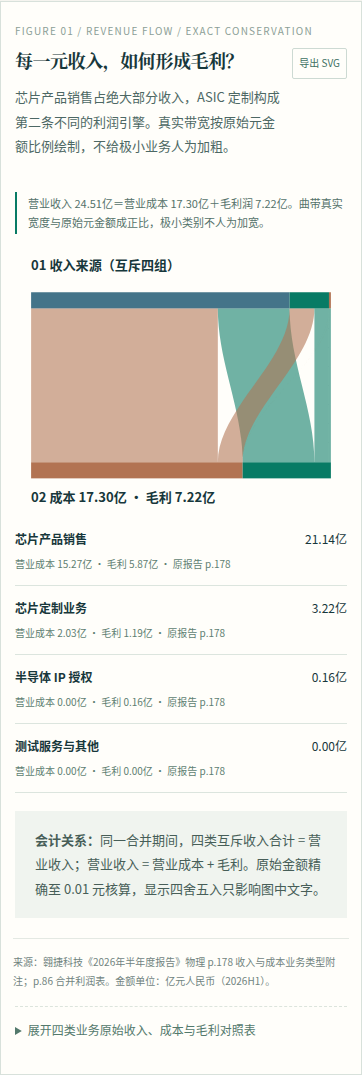
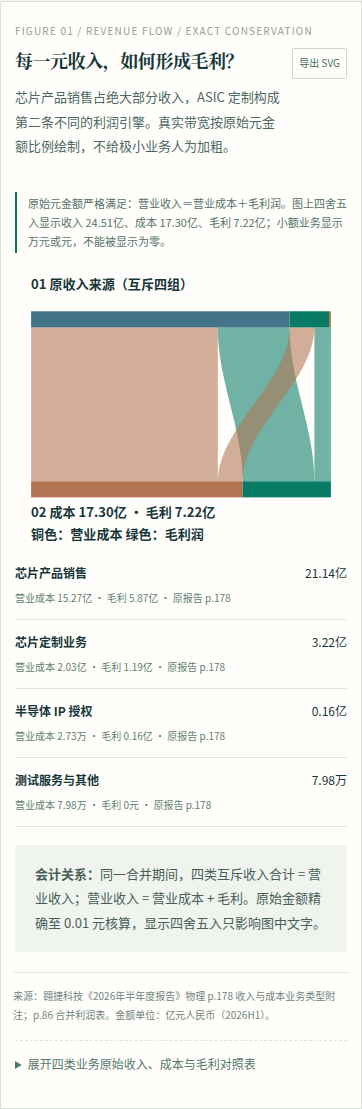
Source rebuild true native semiconductor mobile money article and real screenshots

diff --git a/public/688220.html b/public/688220.html
@@ -37,8 +37,8 @@ section.article{margin-top:105px;scroll-margin-top:80px}.sectionid{display:inlin
 <div class="signals"><div><small>2026H1 收入 / 同比</small><b>24.51 亿元</b><span>+29.15% · 合并口径</span></div><div><small>利润结构 / 归母与扣非</small><b>+0.84 / −0.59 亿</b><span>相差 1.43 亿元税后非经常项目</span></div><div><small>现金转换 / 经营现金流</small><b style="color:var(--rust)">−3.77 亿元</b><span>存货与经营性应收共同吸收现金</span></div></div>
 <section class="article" id="business"><span class="sectionid">01 / BUSINESS ECONOMICS</span><div class="section-head"><h2>不是一个“芯片收入”标签：<br>产品销售与 ASIC 定制的经济机制不同。</h2><p>芯片销售依赖设计、晶圆生产、封测、渠道和库存周转；ASIC 的开发、验证与验收则影响合同履约成本、收入确认和订单转化的时间点。</p></div>
 <div class="essay"><p>原始附注把同一合并营业收入拆为四个**互斥业务类型**。这里的资金流只采用这四行及对应成本，绝不将“蜂窝基带”管理层产品描述、区域、终端应用或客户行业重复叠加。</p></div>
-<figure class="figure" id="fig-flow"><div class="figure-id">FIGURE 01 / REVENUE FLOW / EXACT CONSERVATION</div><div class="figure-top"><div><h3>每一元收入，如何形成毛利？</h3><p class="answer">芯片产品销售占绝大部分收入，ASIC 定制构成第二条不同的利润引擎。真实带宽按原始元金额比例绘制，不给极小业务人为加粗。</p></div><button class="export" type="button" data-export="flow">导出 SVG</button></div><div class="mobile-facts" aria-label="收入流向手机端摘要"><strong>营业收入 24.51 亿元 = 营业成本 17.30 亿元 + 毛利 7.22 亿元。</strong><span>芯片产品收入 21.14 亿元；ASIC 定制收入 3.22 亿元，均属于四项互斥同口径收入分组。</span></div><div class="vizscroll" id="chart-flow" role="region" aria-label="业务收入来源到营业成本及毛利的金额加权财务桑基图，移动端可左右滚动"></div><div class="native-asr" data-finance-grammar="nonnegative_conserved_source_cost_gp"><p class="native-asr-dek">营业收入 24.51亿＝营业成本 17.30亿＋毛利润 7.22亿。曲带真实宽度与原始元金额成正比，极小类别不人为加宽。</p><svg class="native-asr-original" xmlns="http://www.w3.org/2000/svg" width="330" height="265" viewBox="0 0 330 265" role="img" aria-label="2026H1原始金额严格守恒的四类业务收入对各自营业成本和毛利的手机原生图"><text x="16.000000000" y="20.000000000" font-size="11" fill="#17373b" font-weight="600">01 收入来源（互斥四组）</text><text x="16.000000000" y="250.000000000" font-size="11" fill="#17373b" font-weight="600">02 成本 17.30亿 · 毛利 7.22亿</text><path class="native-asr-ribbon" data-source-key="chip_rev" data-sink="cost" data-exact-yuan="1526733108.74" data-width="185.604000948" d="M16.000000000,58 C16.000000000,112 16.000000000,158 16.000000000,211 L201.604000948,211 C201.604000948,158 201.604000948,112 201.604000948,58 Z" fill="#b27352" fill-opacity=".58"><title>芯片产品销售 cost 15.27亿</title></path><path class="native-asr-ribbon" data-source-key="chip_rev" data-sink="gp" data-exact-yuan="586889184.37" data-width="71.347755615" d="M201.604000948,58 C201.604000948,112 226.285732284,158 226.285732284,211 L297.633487899,211 C297.633487899,158 272.951756563,112 272.951756563,58 Z" fill="#087b65" fill-opacity=".58"><title>芯片产品销售 gp 5.87亿</title></path><path class="native-asr-ribbon" data-source-key="asic_rev" data-sink="cost" data-exact-yuan="202918826.51" data-width="24.668716393" d="M272.951756563,58 C272.951756563,112 201.604000948,158 201.604000948,211 L226.272717341,211 C226.272717341,158 297.620472956,112 297.620472956,58 Z" fill="#b27352" fill-opacity=".58"><title>芯片定制业务 cost 2.03亿</title></path><path class="native-asr-ribbon" data-source-key="asic_rev" data-sink="gp" data-exact-yuan="118983630.02" data-width="14.464766404" d="M297.620472956,58 C297.620472956,112 297.633487899,158 297.633487899,211 L312.098254303,211 C312.098254303,158 312.085239360,112 312.085239360,58 Z" fill="#087b65" fill-opacity=".58"><title>芯片定制业务 gp 1.19亿</title></path><path class="native-asr-ribbon" data-source-key="ip_rev" data-sink="cost" data-exact-yuan="27287.82" data-width="0.003317363" d="M312.085239360,58 C312.085239360,112 226.272717341,158 226.272717341,211 L226.276034704,211 C226.276034704,158 312.088556723,112 312.088556723,58 Z" fill="#b27352" fill-opacity=".58"><title>半导体 IP 授权 cost 0.00亿</title></path><path class="native-asr-ribbon" data-source-key="ip_rev" data-sink="gp" data-exact-yuan="15643294.89" data-width="1.901745697" d="M312.088556723,58 C312.088556723,112 312.098254303,158 312.098254303,211 L314.000000000,211 C314.000000000,158 313.990302420,112 313.990302420,58 Z" fill="#087b65" fill-opacity=".58"><title>半导体 IP 授权 gp 0.16亿</title></path><path class="native-asr-ribbon" data-source-key="other_service_rev" data-sink="cost" data-exact-yuan="79769.92" data-width="0.009697580" d="M313.990302420,58 C313.990302420,112 226.276034704,158 226.276034704,211 L226.285732284,211 C226.285732284,158 314.000000000,112 314.000000000,58 Z" fill="#b27352" fill-opacity=".58"><title>测试服务与其他 cost 0.00亿</title></path><rect class="native-asr-source" data-source-key="chip_rev" data-exact-yuan="2113622293.11" x="16.000000000" y="42" width="256.951756563" height="16" fill="#447489"/><rect class="native-asr-source" data-source-key="asic_rev" data-exact-yuan="321902456.53" x="272.951756563" y="42" width="39.133482797" height="16" fill="#087b65"/><rect class="native-asr-source" data-source-key="ip_rev" data-exact-yuan="15670582.71" x="312.085239360" y="42" width="1.905063060" height="16" fill="#b27352"/><rect class="native-asr-source" data-source-key="other_service_rev" data-exact-yuan="79769.92" x="313.990302420" y="42" width="0.009697580" height="16" fill="#a6bab1"/><rect class="native-asr-sink" data-sink="cost" data-exact-yuan="1729758992.99" x="16" y="211" width="210.285732284" height="16" fill="#b27352"/><rect class="native-asr-sink" data-sink="gp" data-exact-yuan="721516109.28" x="226.285732284" y="211" width="87.714267716" height="16" fill="#087b65"/></svg><div class="native-asr-detail"><b>芯片产品销售</b><span>21.14亿</span><small>营业成本 15.27亿 · 毛利 5.87亿 · 原报告 p.178</small></div><div class="native-asr-detail"><b>芯片定制业务</b><span>3.22亿</span><small>营业成本 2.03亿 · 毛利 1.19亿 · 原报告 p.178</small></div><div class="native-asr-detail"><b>半导体 IP 授权</b><span>0.16亿</span><small>营业成本 0.00亿 · 毛利 0.16亿 · 原报告 p.178</small></div><div class="native-asr-detail"><b>测试服务与其他</b><span>0.00亿</span><small>营业成本 0.00亿 · 毛利 0.00亿 · 原报告 p.178</small></div></div><p class="scroll-hint">移动端可在图内左右滑动；关键金额与口径可在下方数据表直接阅读。</p><div class="context"><strong>会计关系：</strong>同一合并期间，四类互斥收入合计 = 营业收入；营业收入 = 营业成本 + 毛利。原始金额精确至 0.01 元核算，显示四舍五入只影响图中文字。</div><p class="source">来源：翱捷科技《2026年半年度报告》物理 p.178 收入与成本业务类型附注；p.86 合并利润表。金额单位：亿元人民币（2026H1）。</p><details class="data-details"><summary>展开四类业务原始收入、成本与毛利对照表</summary><div id="table-flow"></div></details></figure>
-<figure class="figure" id="fig-segment"><div class="figure-id">FIGURE 02 / CONTRIBUTION vs MARGIN</div><div class="figure-top"><div><h3>谁贡献毛利？谁只是高毛利率的极小分母？</h3><p class="answer">同时标注分部毛利金额与毛利率，防止将 IP 授权的高毛利率误判为集团主要盈利来源。</p></div><button class="export" type="button" data-export="segment">导出 SVG</button></div><div class="mobile-facts" aria-label="分业务毛利手机端摘要"><strong>芯片产品毛利约 5.87 亿元；ASIC 定制毛利约 1.19 亿元。</strong><span>高毛利率的 IP 授权收入金额较小，不能用毛利率代替毛利贡献。</span></div><div class="vizscroll" id="chart-segment"></div><div class="native-asr" data-finance-grammar="source_gp_contribution_with_rate"><p class="native-asr-dek">“半导体 IP 授权”毛利率接近100%，但分母很小，不应把高毛利率误认为主要集团盈利贡献。</p><svg class="native-asr-original" xmlns="http://www.w3.org/2000/svg" width="330" height="285" viewBox="0 0 330 285" role="img" aria-label="翱捷科技四类业务毛利润原始元比例与不同分母的毛利率"><text x="16.000000000" y="23.000000000" font-size="12" fill="#17373b" font-weight="600">芯片产品销售</text><text x="314.000000000" y="23.000000000" font-size="10" fill="#17373b" font-weight="600" text-anchor="end">5.87亿 · 27.8%</text><rect class="native-asr-gp" data-gp-yuan="586889184.37" x="16" y="35" width="298.000000000" height="18" fill="#087b65"/><text x="16.000000000" y="85.000000000" font-size="12" fill="#17373b" font-weight="600">芯片定制业务</text><text x="314.000000000" y="85.000000000" font-size="10" fill="#17373b" font-weight="600" text-anchor="end">1.19亿 · 37.0%</text><rect class="native-asr-gp" data-gp-yuan="118983630.02" x="16" y="97" width="60.415360668" height="18" fill="#447489"/><text x="16.000000000" y="147.000000000" font-size="12" fill="#17373b" font-weight="600">半导体 IP 授权</text><text x="314.000000000" y="147.000000000" font-size="10" fill="#17373b" font-weight="600" text-anchor="end">0.16亿 · 99.8%</text><rect class="native-asr-gp" data-gp-yuan="15643294.89" x="16" y="159" width="7.943070006" height="18" fill="#b27352"/><text x="16.000000000" y="209.000000000" font-size="12" fill="#17373b" font-weight="600">测试服务与其他</text><text x="314.000000000" y="209.000000000" font-size="10" fill="#17373b" font-weight="600" text-anchor="end">0.00亿 · 0.0%</text><rect class="native-asr-gp" data-gp-yuan="0.00" x="16" y="221" width="0.000000000" height="18" fill="#a6bab1"/></svg></div><p class="source">来源：同一 2026H1 财报 p.178，收入与成本按相同业务类型逐项相减；未披露可持续 IP 定价能力，不能仅由一期利润率推断。</p><details class="data-details"><summary>展开毛利与毛利率计算证据</summary><div id="table-segment"></div></details></figure>
+<figure class="figure" id="fig-flow"><div class="figure-id">FIGURE 01 / REVENUE FLOW / EXACT CONSERVATION</div><div class="figure-top"><div><h3>每一元收入，如何形成毛利？</h3><p class="answer">芯片产品销售占绝大部分收入，ASIC 定制构成第二条不同的利润引擎。真实带宽按原始元金额比例绘制，不给极小业务人为加粗。</p></div><button class="export" type="button" data-export="flow">导出 SVG</button></div><div class="mobile-facts" aria-label="收入流向手机端摘要"><strong>营业收入 24.51 亿元 = 营业成本 17.30 亿元 + 毛利 7.22 亿元。</strong><span>芯片产品收入 21.14 亿元；ASIC 定制收入 3.22 亿元，均属于四项互斥同口径收入分组。</span></div><div class="vizscroll" id="chart-flow" role="region" aria-label="业务收入来源到营业成本及毛利的金额加权财务桑基图，移动端可左右滚动"></div><div class="native-asr" data-finance-grammar="nonnegative_conserved_source_cost_gp"><p class="native-asr-dek">原始元金额严格满足：营业收入＝营业成本＋毛利润。图上四舍五入显示收入 24.51亿、成本 17.30亿、毛利 7.22亿；小额业务显示万元或元，不能被显示为零。</p><svg class="native-asr-original" xmlns="http://www.w3.org/2000/svg" width="330" height="280" viewBox="0 0 330 280" role="img" aria-label="2026H1原始金额严格守恒的四类业务收入对各自营业成本和毛利的手机原生图"><text x="16.000000000" y="20.000000000" font-size="11" fill="#17373b" font-weight="600">01 原收入来源（互斥四组）</text><text x="16.000000000" y="247.000000000" font-size="11" fill="#17373b" font-weight="600">02 成本 17.30亿 · 毛利 7.22亿</text><text x="16.000000000" y="268.000000000" font-size="10" fill="#a6bab1" font-weight="600">铜色：营业成本     绿色：毛利润</text><path class="native-asr-ribbon" data-source-key="chip_rev" data-sink="cost" data-exact-yuan="1526733108.74" data-width="185.604000948" d="M16.000000000,58 C16.000000000,112 16.000000000,158 16.000000000,211 L201.604000948,211 C201.604000948,158 201.604000948,112 201.604000948,58 Z" fill="#b27352" fill-opacity=".58"><title>芯片产品销售 cost 15.27亿</title></path><path class="native-asr-ribbon" data-source-key="chip_rev" data-sink="gp" data-exact-yuan="586889184.37" data-width="71.347755615" d="M201.604000948,58 C201.604000948,112 226.285732284,158 226.285732284,211 L297.633487899,211 C297.633487899,158 272.951756563,112 272.951756563,58 Z" fill="#087b65" fill-opacity=".58"><title>芯片产品销售 gp 5.87亿</title></path><path class="native-asr-ribbon" data-source-key="asic_rev" data-sink="cost" data-exact-yuan="202918826.51" data-width="24.668716393" d="M272.951756563,58 C272.951756563,112 201.604000948,158 201.604000948,211 L226.272717341,211 C226.272717341,158 297.620472956,112 297.620472956,58 Z" fill="#b27352" fill-opacity=".58"><title>芯片定制业务 cost 2.03亿</title></path><path class="native-asr-ribbon" data-source-key="asic_rev" data-sink="gp" data-exact-yuan="118983630.02" data-width="14.464766404" d="M297.620472956,58 C297.620472956,112 297.633487899,158 297.633487899,211 L312.098254303,211 C312.098254303,158 312.085239360,112 312.085239360,58 Z" fill="#087b65" fill-opacity=".58"><title>芯片定制业务 gp 1.19亿</title></path><path class="native-asr-ribbon" data-source-key="ip_rev" data-sink="cost" data-exact-yuan="27287.82" data-width="0.003317363" d="M312.085239360,58 C312.085239360,112 226.272717341,158 226.272717341,211 L226.276034704,211 C226.276034704,158 312.088556723,112 312.088556723,58 Z" fill="#b27352" fill-opacity=".58"><title>半导体 IP 授权 cost 2.73万</title></path><path class="native-asr-ribbon" data-source-key="ip_rev" data-sink="gp" data-exact-yuan="15643294.89" data-width="1.901745697" d="M312.088556723,58 C312.088556723,112 312.098254303,158 312.098254303,211 L314.000000000,211 C314.000000000,158 313.990302420,112 313.990302420,58 Z" fill="#087b65" fill-opacity=".58"><title>半导体 IP 授权 gp 0.16亿</title></path><path class="native-asr-ribbon" data-source-key="other_service_rev" data-sink="cost" data-exact-yuan="79769.92" data-width="0.009697580" d="M313.990302420,58 C313.990302420,112 226.276034704,158 226.276034704,211 L226.285732284,211 C226.285732284,158 314.000000000,112 314.000000000,58 Z" fill="#b27352" fill-opacity=".58"><title>测试服务与其他 cost 7.98万</title></path><rect class="native-asr-source" data-source-key="chip_rev" data-exact-yuan="2113622293.11" x="16.000000000" y="42" width="256.951756563" height="16" fill="#447489"/><rect class="native-asr-source" data-source-key="asic_rev" data-exact-yuan="321902456.53" x="272.951756563" y="42" width="39.133482797" height="16" fill="#087b65"/><rect class="native-asr-source" data-source-key="ip_rev" data-exact-yuan="15670582.71" x="312.085239360" y="42" width="1.905063060" height="16" fill="#b27352"/><rect class="native-asr-source" data-source-key="other_service_rev" data-exact-yuan="79769.92" x="313.990302420" y="42" width="0.009697580" height="16" fill="#a6bab1"/><rect class="native-asr-sink" data-sink="cost" data-exact-yuan="1729758992.99" x="16" y="211" width="210.285732284" height="16" fill="#b27352"/><rect class="native-asr-sink" data-sink="gp" data-exact-yuan="721516109.28" x="226.285732284" y="211" width="87.714267716" height="16" fill="#087b65"/></svg><div class="native-asr-detail"><b>芯片产品销售</b><span>21.14亿</span><small>营业成本 15.27亿 · 毛利 5.87亿 · 原报告 p.178</small></div><div class="native-asr-detail"><b>芯片定制业务</b><span>3.22亿</span><small>营业成本 2.03亿 · 毛利 1.19亿 · 原报告 p.178</small></div><div class="native-asr-detail"><b>半导体 IP 授权</b><span>0.16亿</span><small>营业成本 2.73万 · 毛利 0.16亿 · 原报告 p.178</small></div><div class="native-asr-detail"><b>测试服务与其他</b><span>7.98万</span><small>营业成本 7.98万 · 毛利 0元 · 原报告 p.178</small></div></div><p class="scroll-hint">移动端可在图内左右滑动；关键金额与口径可在下方数据表直接阅读。</p><div class="context"><strong>会计关系：</strong>同一合并期间，四类互斥收入合计 = 营业收入；营业收入 = 营业成本 + 毛利。原始金额精确至 0.01 元核算，显示四舍五入只影响图中文字。</div><p class="source">来源：翱捷科技《2026年半年度报告》物理 p.178 收入与成本业务类型附注；p.86 合并利润表。金额单位：亿元人民币（2026H1）。</p><details class="data-details"><summary>展开四类业务原始收入、成本与毛利对照表</summary><div id="table-flow"></div></details></figure>
+<figure class="figure" id="fig-segment"><div class="figure-id">FIGURE 02 / CONTRIBUTION vs MARGIN</div><div class="figure-top"><div><h3>谁贡献毛利？谁只是高毛利率的极小分母？</h3><p class="answer">同时标注分部毛利金额与毛利率，防止将 IP 授权的高毛利率误判为集团主要盈利来源。</p></div><button class="export" type="button" data-export="segment">导出 SVG</button></div><div class="mobile-facts" aria-label="分业务毛利手机端摘要"><strong>芯片产品毛利约 5.87 亿元；ASIC 定制毛利约 1.19 亿元。</strong><span>高毛利率的 IP 授权收入金额较小，不能用毛利率代替毛利贡献。</span></div><div class="vizscroll" id="chart-segment"></div><div class="native-asr" data-finance-grammar="source_gp_contribution_with_rate"><p class="native-asr-dek">“半导体 IP 授权”毛利率接近100%，但分母很小，不应把高毛利率误认为主要集团盈利贡献。</p><svg class="native-asr-original" xmlns="http://www.w3.org/2000/svg" width="330" height="285" viewBox="0 0 330 285" role="img" aria-label="翱捷科技四类业务毛利润原始元比例与不同分母的毛利率"><text x="16.000000000" y="23.000000000" font-size="12" fill="#17373b" font-weight="600">芯片产品销售</text><text x="314.000000000" y="23.000000000" font-size="10" fill="#17373b" font-weight="600" text-anchor="end">5.87亿 · 27.8%</text><rect class="native-asr-gp" data-gp-yuan="586889184.37" x="16" y="35" width="298.000000000" height="18" fill="#087b65"/><text x="16.000000000" y="85.000000000" font-size="12" fill="#17373b" font-weight="600">芯片定制业务</text><text x="314.000000000" y="85.000000000" font-size="10" fill="#17373b" font-weight="600" text-anchor="end">1.19亿 · 37.0%</text><rect class="native-asr-gp" data-gp-yuan="118983630.02" x="16" y="97" width="60.415360668" height="18" fill="#447489"/><text x="16.000000000" y="147.000000000" font-size="12" fill="#17373b" font-weight="600">半导体 IP 授权</text><text x="314.000000000" y="147.000000000" font-size="10" fill="#17373b" font-weight="600" text-anchor="end">0.16亿 · 99.8%</text><rect class="native-asr-gp" data-gp-yuan="15643294.89" x="16" y="159" width="7.943070006" height="18" fill="#b27352"/><text x="16.000000000" y="209.000000000" font-size="12" fill="#17373b" font-weight="600">测试服务与其他</text><text x="314.000000000" y="209.000000000" font-size="10" fill="#17373b" font-weight="600" text-anchor="end">0元 · 0.0%</text><rect class="native-asr-gp" data-gp-yuan="0.00" x="16" y="221" width="0.000000000" height="18" fill="#a6bab1"/></svg></div><p class="source">来源：同一 2026H1 财报 p.178，收入与成本按相同业务类型逐项相减；未披露可持续 IP 定价能力，不能仅由一期利润率推断。</p><details class="data-details"><summary>展开毛利与毛利率计算证据</summary><div id="table-segment"></div></details></figure>
 <div class="essay"><p>管理层在 p.23–24 讨论蜂窝基带芯片及 ASIC 项目订单。相关描述是经营讨论，不是另一套可与四类财报收入相加的会计分组。管理层披露 ASIC 在手订单约 15 亿元以上、已量产订单占比较低；它不能当作已确认 2026H1 收入。合并财报 p.210 确认集团只有一个管理报告经营分部，因此四个合同商品类型也不能称为四个独立的会计经营分部。</p></div>
 <aside class="note"><h3>客户验收改变收入确认时点</h3><p>p.125–126 进一步规定：直销、买断式与代理式经销的控制权转移时点不同；ASIC 定制须向客户交付工程样片并通过芯片功能验收，不能以内部设计进度确认收入；IP 授权在满足相关条件时可能于一段时间确认。p.178 本期按某一时点确认收入 2,449,003,919.23 元，按某一时段确认 2,271,183.04 元，这是一组独立时间维度，不能与商品类型相加。p.147 芯片定制设计服务的合同履约成本在客户控制权转移时结转。p.179 披露未来待履约义务对应收入约 23.64 亿元（全部业务），与管理层 ASIC 在手订单 15 亿元并非同一统计口径，不得相加。待履约义务短期/长期细分在原始元金额上存在 0.01 元的披露差额，因此本研究不会据此画“分毫不差”的第二张桑基。</p></aside>
 </section>
@@ -51,7 +51,7 @@ section.article{margin-top:105px;scroll-margin-top:80px}.sectionid{display:inlin
   <p class="answer">不是把负数强塞进桑基。研发费用先吸收约 6.63 亿毛利，再由投资、公允价值变动及税项等带符号调节，形成当期法定利润。这是一张完整利润表主线桥，不是现金流向。</p>
  </div><button class="export" type="button" data-export="pnl">导出 SVG</button></div>
  <div class="mobile-facts" aria-label="法定利润桥手机端答案"><strong>毛利 7.22 亿 − 研发 6.63 亿 − 其他税费与期间费用约 0.80 亿 → 基础经营余量约 −0.22 亿。</strong><span>随后叠加其他收益、投资收益、公允价值变动、减值、非经营收支与所得税收益，合并净利润为 +0.84 亿。不是经营性现金。</span></div>
- <div class="vizscroll" id="chart-pnl" role="region" aria-label="2026年上半年从毛利至法定净利润的带符号瀑布；移动端可左右滑动"></div><div class="native-asr" data-finance-grammar="signed_cumulative_finance"><p class="native-asr-dek">每一步共用同一人民币元比例轴；绿色增加、铜色减少，负现金也不伪装为正流。</p><svg class="native-asr-original" xmlns="http://www.w3.org/2000/svg" width="330" height="477" viewBox="0 0 330 477" role="img" aria-label="2026H1 合并毛利润：原始元金额带符号累计瀑布"><path d="M25.629125436,18 V469" stroke="#bdcbc3" stroke-dasharray="3 4"/><text x="17.000000000" y="25.000000000" font-size="11" fill="#17373b" font-weight="600">2026H1 合并毛利润</text><text x="313.000000000" y="25.000000000" font-size="11" fill="#17373b" font-weight="700" text-anchor="end">7.22亿</text><rect class="native-asr-signed" data-kind="start" data-step="0" data-signed-yuan="721516109.28" data-cumulative-yuan="721516109.28" x="25.629125436" y="35" width="287.370874564" height="15" fill="#17373b"/><text x="313.000000000" y="72.000000000" font-size="10" fill="#a6bab1" font-weight="500" text-anchor="end">累计 7.22亿</text><text x="17.000000000" y="89.000000000" font-size="11" fill="#17373b" font-weight="600">研发费用</text><text x="313.000000000" y="89.000000000" font-size="11" fill="#a84f40" font-weight="700" text-anchor="end">-6.63亿</text><rect class="native-asr-signed" data-kind="step" data-step="1" data-signed-yuan="-663322721.74" data-cumulative-yuan="58193387.54" x="48.806826469" y="99" width="264.193173531" height="15" fill="#a84f40"/><text x="313.000000000" y="136.000000000" font-size="10" fill="#a6bab1" font-weight="500" text-anchor="end">累计 0.58亿</text><text x="17.000000000" y="153.000000000" font-size="11" fill="#17373b" font-weight="600">其他期间费用及税金</text><text x="313.000000000" y="153.000000000" font-size="11" fill="#a84f40" font-weight="700" text-anchor="end">-0.80亿</text><rect class="native-asr-signed" data-kind="step" data-step="2" data-signed-yuan="-79858954.80" data-cumulative-yuan="-21665567.26" x="17.000000000" y="163" width="31.806826469" height="15" fill="#a84f40"/><text x="313.000000000" y="200.000000000" font-size="10" fill="#a6bab1" font-weight="500" text-anchor="end">累计 -0.22亿</text><text x="17.000000000" y="217.000000000" font-size="11" fill="#17373b" font-weight="600">其他经营损益净额</text><text x="313.000000000" y="217.000000000" font-size="11" fill="#087b65" font-weight="700" text-anchor="end">+0.77亿</text><rect class="native-asr-signed" data-kind="step" data-step="3" data-signed-yuan="76610973.44" data-cumulative-yuan="54945406.18" x="17.000000000" y="227" width="30.513195971" height="15" fill="#087b65"/><text x="313.000000000" y="264.000000000" font-size="10" fill="#a6bab1" font-weight="500" text-anchor="end">累计 0.55亿</text><text x="17.000000000" y="281.000000000" font-size="11" fill="#17373b" font-weight="600">营业外收支净额</text><text x="313.000000000" y="281.000000000" font-size="11" fill="#087b65" font-weight="700" text-anchor="end">+0.00亿</text><rect class="native-asr-signed" data-kind="step" data-step="4" data-signed-yuan="256125.37" data-cumulative-yuan="55201531.55" x="47.513195971" y="291" width="0.102011543" height="15" fill="#087b65"/><text x="313.000000000" y="328.000000000" font-size="10" fill="#a6bab1" font-weight="500" text-anchor="end">累计 0.55亿</text><text x="17.000000000" y="345.000000000" font-size="11" fill="#17373b" font-weight="600">所得税影响</text><text x="313.000000000" y="345.000000000" font-size="11" fill="#087b65" font-weight="700" text-anchor="end">+0.29亿</text><rect class="native-asr-signed" data-kind="step" data-step="5" data-signed-yuan="29042237.12" data-cumulative-yuan="84243768.67" x="47.615207514" y="355" width="11.567161111" height="15" fill="#087b65"/><text x="313.000000000" y="392.000000000" font-size="10" fill="#a6bab1" font-weight="500" text-anchor="end">累计 0.84亿</text><text x="17.000000000" y="409.000000000" font-size="11" fill="#17373b" font-weight="600">会计闭合总额</text><text x="313.000000000" y="409.000000000" font-size="11" fill="#17373b" font-weight="700" text-anchor="end">0.84亿</text><rect class="native-asr-signed" data-kind="total" data-step="6" data-signed-yuan="84243768.67" data-cumulative-yuan="84243768.67" x="25.629125436" y="419" width="33.553243189" height="15" fill="#17373b"/><text x="313.000000000" y="456.000000000" font-size="10" fill="#a6bab1" font-weight="500" text-anchor="end">累计 0.84亿</text></svg></div>
+ <div class="vizscroll" id="chart-pnl" role="region" aria-label="2026年上半年从毛利至法定净利润的带符号瀑布；移动端可左右滑动"></div><div class="native-asr" data-finance-grammar="signed_cumulative_finance"><p class="native-asr-dek">每一步共用同一人民币元比例轴；绿色增加、铜色减少，负现金也不伪装为正流。</p><svg class="native-asr-original" xmlns="http://www.w3.org/2000/svg" width="330" height="477" viewBox="0 0 330 477" role="img" aria-label="2026H1 合并毛利润：原始元金额带符号累计瀑布"><path d="M25.629125436,18 V469" stroke="#bdcbc3" stroke-dasharray="3 4"/><text x="17.000000000" y="25.000000000" font-size="11" fill="#17373b" font-weight="600">2026H1 合并毛利润</text><text x="313.000000000" y="25.000000000" font-size="11" fill="#17373b" font-weight="700" text-anchor="end">7.22亿</text><rect class="native-asr-signed" data-kind="start" data-step="0" data-signed-yuan="721516109.28" data-cumulative-yuan="721516109.28" x="25.629125436" y="35" width="287.370874564" height="15" fill="#17373b"/><text x="313.000000000" y="72.000000000" font-size="10" fill="#a6bab1" font-weight="500" text-anchor="end">累计 7.22亿</text><text x="17.000000000" y="89.000000000" font-size="11" fill="#17373b" font-weight="600">研发费用</text><text x="313.000000000" y="89.000000000" font-size="11" fill="#a84f40" font-weight="700" text-anchor="end">-6.63亿</text><rect class="native-asr-signed" data-kind="step" data-step="1" data-signed-yuan="-663322721.74" data-cumulative-yuan="58193387.54" x="48.806826469" y="99" width="264.193173531" height="15" fill="#a84f40"/><text x="313.000000000" y="136.000000000" font-size="10" fill="#a6bab1" font-weight="500" text-anchor="end">累计 0.58亿</text><text x="17.000000000" y="153.000000000" font-size="11" fill="#17373b" font-weight="600">其他期间费用及税金</text><text x="313.000000000" y="153.000000000" font-size="11" fill="#a84f40" font-weight="700" text-anchor="end">-0.80亿</text><rect class="native-asr-signed" data-kind="step" data-step="2" data-signed-yuan="-79858954.80" data-cumulative-yuan="-21665567.26" x="17.000000000" y="163" width="31.806826469" height="15" fill="#a84f40"/><text x="313.000000000" y="200.000000000" font-size="10" fill="#a6bab1" font-weight="500" text-anchor="end">累计 -0.22亿</text><text x="17.000000000" y="217.000000000" font-size="11" fill="#17373b" font-weight="600">其他经营损益净额</text><text x="313.000000000" y="217.000000000" font-size="11" fill="#087b65" font-weight="700" text-anchor="end">+0.77亿</text><rect class="native-asr-signed" data-kind="step" data-step="3" data-signed-yuan="76610973.44" data-cumulative-yuan="54945406.18" x="17.000000000" y="227" width="30.513195971" height="15" fill="#087b65"/><text x="313.000000000" y="264.000000000" font-size="10" fill="#a6bab1" font-weight="500" text-anchor="end">累计 0.55亿</text><text x="17.000000000" y="281.000000000" font-size="11" fill="#17373b" font-weight="600">营业外收支净额</text><text x="313.000000000" y="281.000000000" font-size="11" fill="#087b65" font-weight="700" text-anchor="end">+25.61万</text><rect class="native-asr-signed" data-kind="step" data-step="4" data-signed-yuan="256125.37" data-cumulative-yuan="55201531.55" x="47.513195971" y="291" width="0.102011543" height="15" fill="#087b65"/><text x="313.000000000" y="328.000000000" font-size="10" fill="#a6bab1" font-weight="500" text-anchor="end">累计 0.55亿</text><text x="17.000000000" y="345.000000000" font-size="11" fill="#17373b" font-weight="600">所得税影响</text><text x="313.000000000" y="345.000000000" font-size="11" fill="#087b65" font-weight="700" text-anchor="end">+0.29亿</text><rect class="native-asr-signed" data-kind="step" data-step="5" data-signed-yuan="29042237.12" data-cumulative-yuan="84243768.67" x="47.615207514" y="355" width="11.567161111" height="15" fill="#087b65"/><text x="313.000000000" y="392.000000000" font-size="10" fill="#a6bab1" font-weight="500" text-anchor="end">累计 0.84亿</text><text x="17.000000000" y="409.000000000" font-size="11" fill="#17373b" font-weight="600">会计闭合总额</text><text x="313.000000000" y="409.000000000" font-size="11" fill="#17373b" font-weight="700" text-anchor="end">0.84亿</text><rect class="native-asr-signed" data-kind="total" data-step="6" data-signed-yuan="84243768.67" data-cumulative-yuan="84243768.67" x="25.629125436" y="419" width="33.553243189" height="15" fill="#17373b"/><text x="313.000000000" y="456.000000000" font-size="10" fill="#a6bab1" font-weight="500" text-anchor="end">累计 0.84亿</text></svg></div>
  <p class="scroll-hint">每一步保留原始财报正负号；微小营业外项目以直接金额标注，表格保留完整元金额。</p>
  <div class="context"><strong>口径守恒：</strong>合并毛利 − 研发 − 另外四项期间费用及税金 + 其他收益 + 投资收益 + 公允价值变动收益 − 信用/资产减值及处置损益 = 营业利润；营业利润 + 营业外净额 − 所得税费用 = 合并净利润。每个括号的明细均可展开核对。</div>
  <p class="source">来源：《翱捷科技 2026 年半年度报告》合并利润表物理 p.86–87。2026H1、人民币亿元，利润表本期损益（非现金）。公允价值损益、税后扣非和其他综合收益是不同口径。</p>
